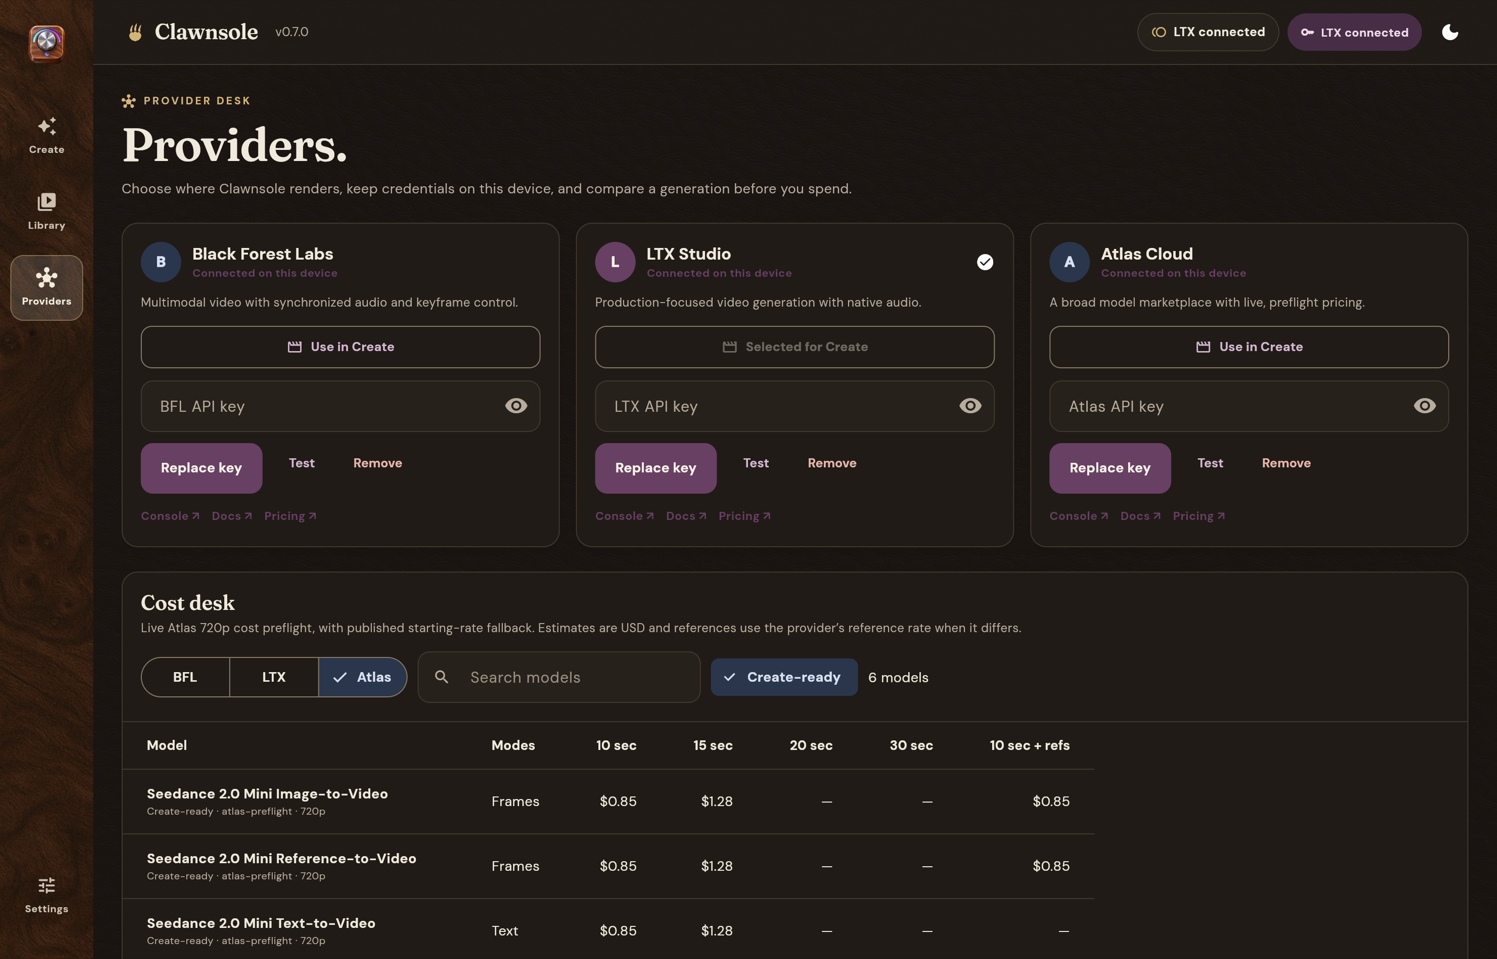
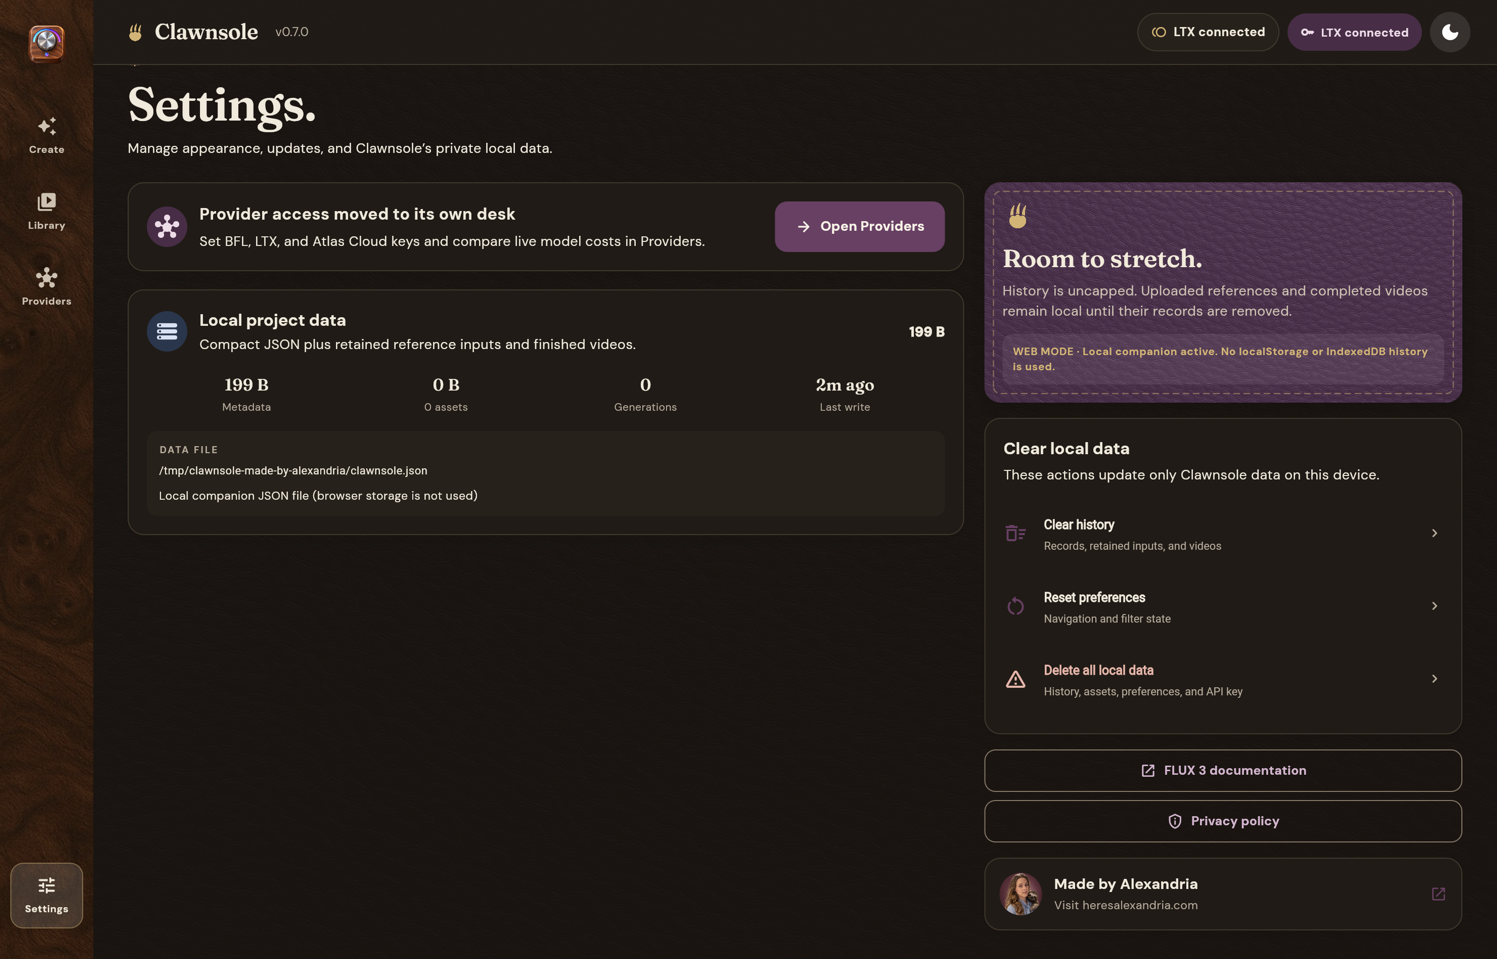
Add Alexandria creator credit (#17)

diff --git a/flutter/lib/ui/settings_screen.dart b/flutter/lib/ui/settings_screen.dart
@@ -395,7 +395,65 @@ class _SettingsSide extends StatelessWidget {
         icon: const Icon(Icons.privacy_tip_outlined, size: 16),
         label: const Text('Privacy policy'),
       ),
+      const SizedBox(height: 15),
+      const _CreatorCard(),
     ],
+  );
+}
+
+class _CreatorCard extends StatelessWidget {
+  const _CreatorCard();
+
+  @override
+  Widget build(BuildContext context) => SurfaceCard(
+    padding: EdgeInsets.zero,
+    child: Semantics(
+      link: true,
+      label: 'Made by Alexandria — opens heresalexandria.com',
+      child: InkWell(
+        key: const ValueKey('alexandria-profile-link'),
+        borderRadius: BorderRadius.circular(16),
+        onTap: () => unawaited(launchUrl(Uri.parse(alexandriaWebsiteUrl))),
+        child: Padding(
+          padding: const EdgeInsets.all(14),
+          child: Row(
+            children: <Widget>[
+              const CircleAvatar(
+                radius: 21,
+                backgroundImage: AssetImage('assets/profile-alexandria.jpg'),
+              ),
+              const SizedBox(width: 12),
+              Expanded(
+                child: Column(
+                  crossAxisAlignment: CrossAxisAlignment.start,
+                  children: <Widget>[
+                    Text(
+                      'Made by Alexandria',
+                      style: Theme.of(context).textTheme.titleMedium?.copyWith(
+                        fontWeight: FontWeight.w700,
+                      ),
+                    ),
+                    const SizedBox(height: 2),
+                    Text(
+                      'Visit heresalexandria.com',
+                      style: TextStyle(
+                        fontSize: 11.5,
+                        color: context.colors.onSurfaceVariant,
+                      ),
+                    ),
+                  ],
+                ),
+              ),
+              Icon(
+                Icons.open_in_new_rounded,
+                size: 17,
+                color: context.colors.primary,
+              ),
+            ],
+          ),
+        ),
+      ),
+    ),
   );
 }
 

diff --git a/docs/assets/site.css b/docs/assets/site.css
@@ -322,9 +322,9 @@ nav a:focus-visible,
   text-transform: uppercase;
 }
 
-.provider-ticket {
+.maker-ticket {
   position: absolute;
-  right: 5%;
+  left: 5%;
   bottom: 13px;
   display: grid;
   min-width: 245px;
@@ -334,11 +334,24 @@ nav a:focus-visible,
   color: #fff2d6;
   background: var(--navy);
   box-shadow: 0 18px 35px rgba(24, 36, 62, 0.25);
+  text-decoration: none;
   transform: rotate(-3deg);
+  transition: transform 160ms ease, box-shadow 160ms ease;
 }
 
-.provider-ticket span,
-.provider-ticket small {
+.maker-ticket:hover,
+.maker-ticket:focus-visible {
+  box-shadow: 0 22px 42px rgba(24, 36, 62, 0.32);
+  transform: rotate(-3deg) translateY(-2px);
+}
+
+.maker-ticket:focus-visible {
+  outline: 3px solid var(--brass);
+  outline-offset: 4px;
+}
+
+.maker-ticket span,
+.maker-ticket small {
   color: #d8c49d;
   font-size: 0.57rem;
   font-weight: 800;
@@ -346,13 +359,13 @@ nav a:focus-visible,
   text-transform: uppercase;
 }
 
-.provider-ticket strong {
+.maker-ticket strong {
   padding-block: 2px;
   font-family: Georgia, serif;
   font-size: 1.35rem;
 }
 
-.provider-ticket small + small {
+.maker-ticket small + small {
   margin-top: 2px;
 }
 
@@ -799,7 +812,7 @@ nav a:focus-visible,
   }
 
   .hero-visual {
-    padding: 0 0 68px;
+    padding: 0;
   }
 
   .screen-frame {
@@ -811,13 +824,17 @@ nav a:focus-visible,
     height: 27px;
   }
 
-  .provider-ticket {
-    right: 2%;
+  .maker-ticket {
+    position: relative;
+    left: auto;
+    bottom: auto;
+    width: fit-content;
     min-width: 175px;
+    margin: 18px 0 0 12px;
     padding: 16px 18px;
   }
 
-  .provider-ticket strong {
+  .maker-ticket strong {
     font-size: 1.2rem;
   }
 

diff --git a/flutter/test/widget_test.dart b/flutter/test/widget_test.dart
@@ -19,6 +19,7 @@ import 'package:clawnsole/core/update_check.dart';
 import 'package:clawnsole/core/web_gateway.dart';
 import 'package:clawnsole/ui/common_widgets.dart';
 import 'package:clawnsole/ui/create_screen.dart';
+import 'package:clawnsole/ui/settings_screen.dart';
 import 'package:flutter/material.dart';
 import 'package:flutter_test/flutter_test.dart';
 import 'package:http/http.dart' as http;
@@ -911,6 +912,34 @@ void main() {
     expect(find.text('System'), findsOneWidget);
     expect(find.text('Light'), findsOneWidget);
     expect(find.text('Dark'), findsOneWidget);
+  });
+
+  testWidgets('settings credits Alexandria with a linked portrait', (
+    tester,
+  ) async {
+    final controller = AppController();
+    addTearDown(controller.dispose);
+
+    await tester.pumpWidget(
+      MaterialApp(
+        theme: buildClawnsoleTheme(Brightness.light),
+        home: Scaffold(body: SettingsScreen(controller: controller)),
+      ),
+    );
+
+    expect(find.text('Made by Alexandria'), findsOneWidget);
+    expect(find.text('Visit heresalexandria.com'), findsOneWidget);
+    expect(
+      find.byKey(const ValueKey('alexandria-profile-link')),
+      findsOneWidget,
+    );
+    final portrait = tester.widget<CircleAvatar>(
+      find.byType(CircleAvatar).last,
+    );
+    expect(
+      portrait.backgroundImage,
+      const AssetImage('assets/profile-alexandria.jpg'),
+    );
   });
 
   test('form infers every FLUX 3 generation mode from its inputs', () {

diff --git a/docs/index.html b/docs/index.html
@@ -74,17 +74,17 @@
             </div>
             <img
               src="assets/clawnsole-preview.png"
-              alt="Clawnsole Providers desk showing connected services and model cost comparisons"
+              alt="Clawnsole Settings showing local data controls and the Made by Alexandria profile link"
               width="1497"
               height="959"
             >
           </div>
-          <div class="provider-ticket" aria-hidden="true">
-            <span>Provider desk</span>
-            <strong>BFL · LTX · Atlas</strong>
-            <small>Bring your own keys</small>
-            <small>Compare before you render</small>
-          </div>
+          <a class="maker-ticket" href="https://heresalexandria.com/">
+            <span>Personal setup</span>
+            <strong>Made by Alexandria</strong>
+            <small>Independent and local-first</small>
+            <small>Visit heresalexandria.com</small>
+          </a>
         </div>
       </section>
 

diff --git a/flutter/lib/core/app_links.dart b/flutter/lib/core/app_links.dart
@@ -1,2 +1,3 @@
 const clawnsoleWebsiteUrl = 'https://heresalexandria.github.io/clawnsole/';
 const clawnsolePrivacyPolicyUrl = '${clawnsoleWebsiteUrl}privacy/';
+const alexandriaWebsiteUrl = 'https://heresalexandria.com/';

diff --git a/README.md b/README.md
@@ -13,7 +13,7 @@
 <p align="center">
   <picture>
     <source media="(prefers-color-scheme: dark)" srcset="docs/assets/clawnsole-preview-dark.png">
-    <img src="docs/assets/clawnsole-preview.png" alt="Clawnsole Providers desk in light mode">
+    <img src="docs/assets/clawnsole-preview.png" alt="Clawnsole Settings showing local data controls and the Made by Alexandria profile link">
   </picture>
 </p>
 
